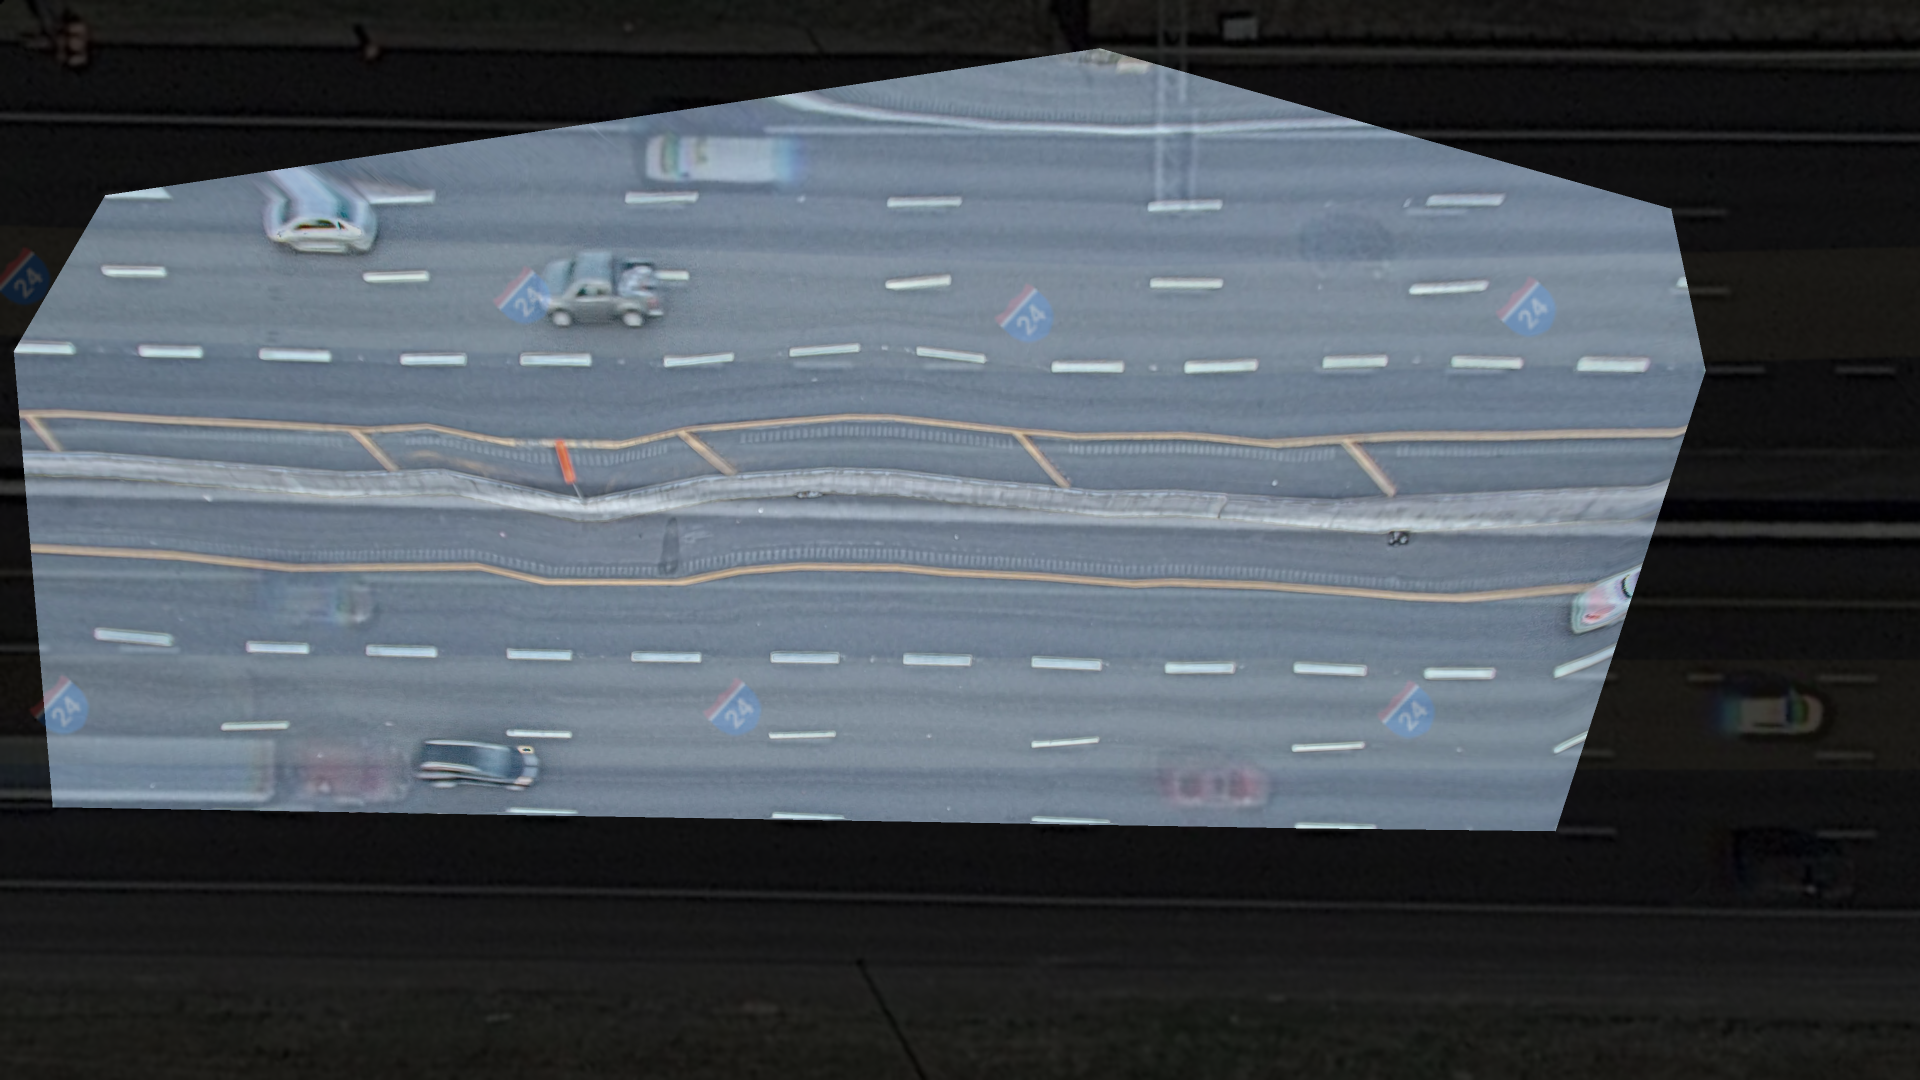
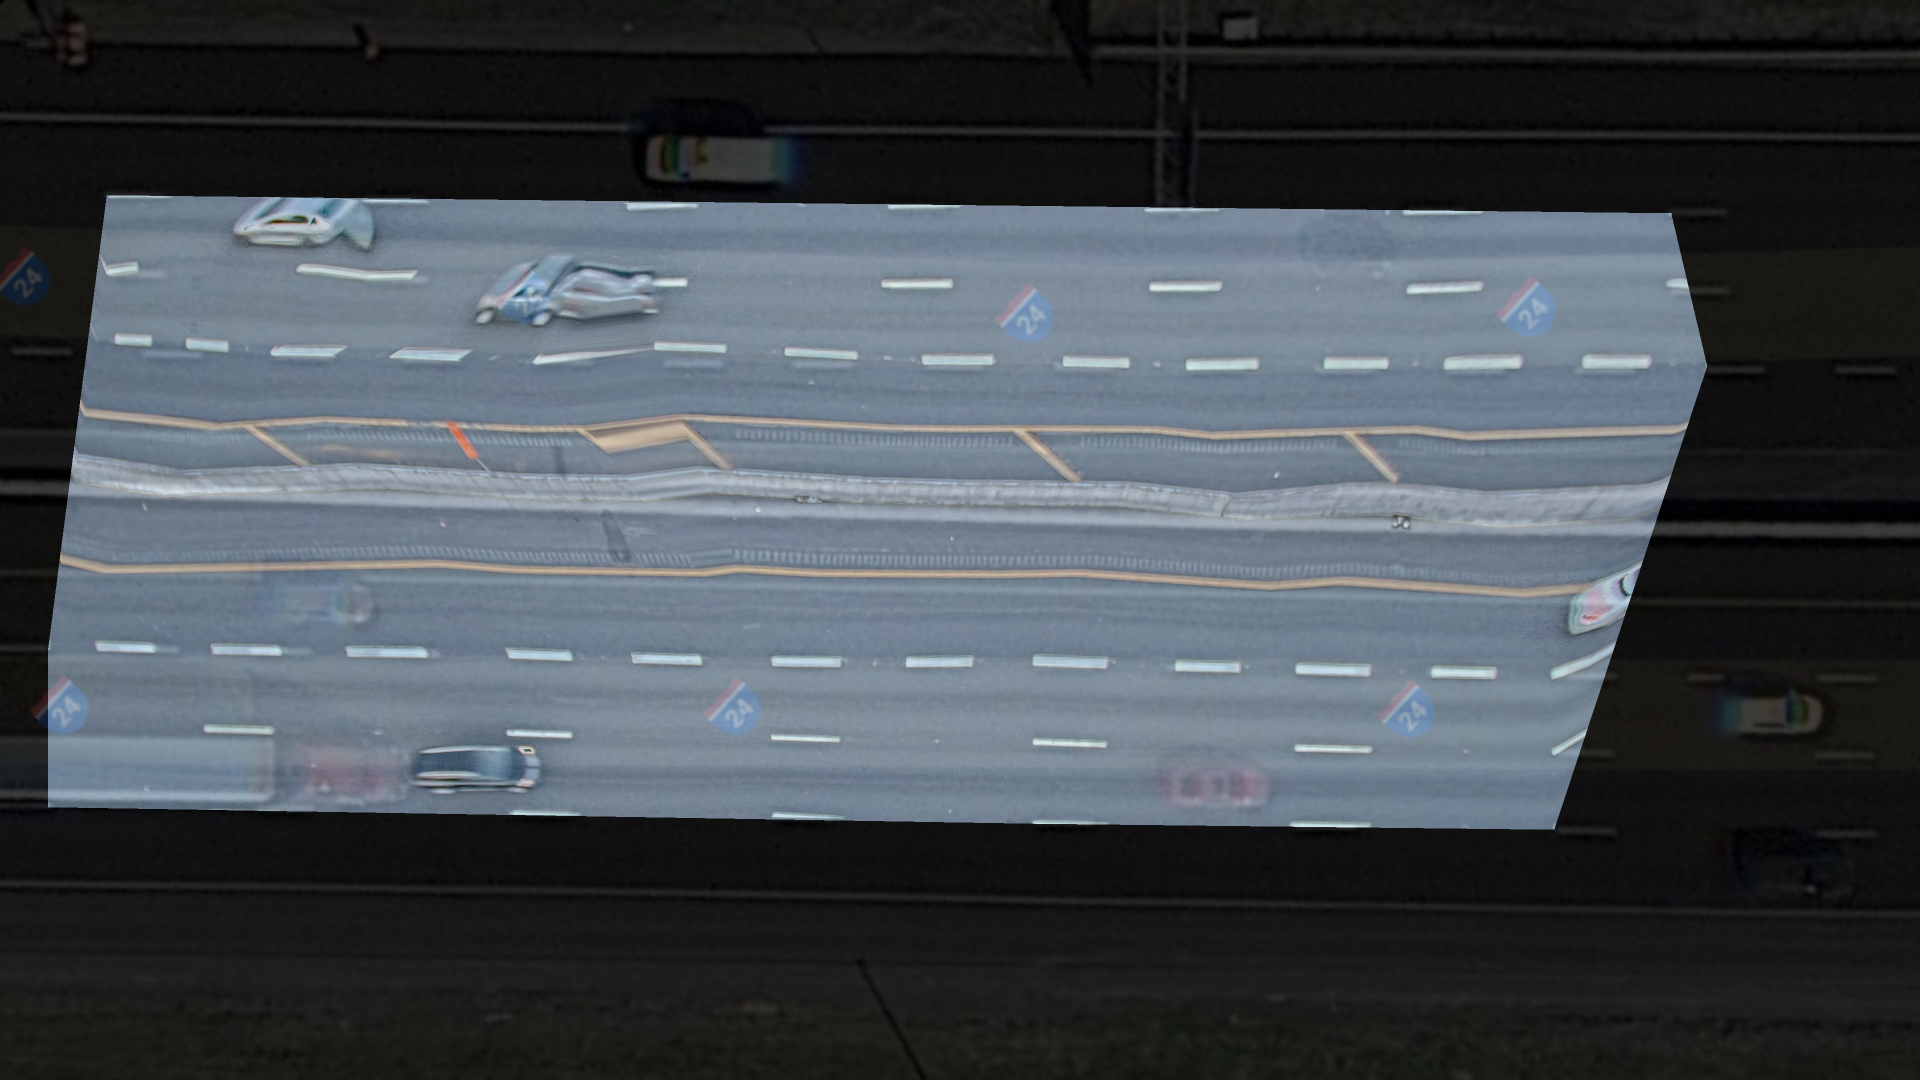
A few tweaks, unresolved issues with this transform still

diff --git a/undistort_fisheye.py b/undistort_fisheye.py
@@ -84,22 +84,29 @@ class Fisheye_Rectifier():
         
     def quit(self):
         cv2.destroyAllWindows()
-        self.find_optimal_warp()
+        #self.find_optimal_warp()
         
-        # compute K and D
-        # n = len(self.undistorted_points)
-        # calibration_flags = cv2.fisheye.CALIB_RECOMPUTE_EXTRINSIC + cv2.fisheye.CALIB_FIX_SKEW
+        #compute K and D
+        n = len(self.undistorted_points)
+        calibration_flags = cv2.fisheye.CALIB_RECOMPUTE_EXTRINSIC + cv2.fisheye.CALIB_FIX_SKEW
         
-        # undistorted = [np.array(self.undistorted_points)[np.newaxis,:,:].astype(np.float32)]
-        # distorted = [np.array(self.distorted_points)[np.newaxis,:,:].astype(np.float32)]
+        undistorted = [np.concatenate((np.array(self.undistorted_points),np.ones([n,1])),axis = 1)[np.newaxis,:,:].astype(np.float32)]
+        distorted = [np.array(self.distorted_points)[np.newaxis,:,:].astype(np.float32)]
         
-        # rvecs = [np.zeros((1, 1, 3), dtype=np.float32) for i in range(n)]
-        # tvecs = [np.zeros((1, 1, 3), dtype=np.float32) for i in range(n)]
-        # D = np.zeros([4,1]).astype(np.float32)
-        # K = np.zeros([3,3]).astype(np.float32)
-        # err, K, D, rvecs, tvecs = cv2.fisheye.calibrate(undistorted,distorted,self.fisheye_im.shape[0:2],K,D,rvecs,tvecs)
-        # print(K,D)
-        # return K,D
+        rvecs = [np.zeros((1, 1, 3), dtype=np.float32) for i in range(n)]
+        tvecs = [np.zeros((1, 1, 3), dtype=np.float32) for i in range(n)]
+        D = np.zeros([4,1]).astype(np.float32)
+        K = np.zeros([3,3]).astype(np.float32)
+        err, K, D, rvecs, tvecs = cv2.fisheye.calibrate(undistorted,distorted,self.fisheye_im.shape[0:2],K,D,rvecs,tvecs)
+        print(err,K,D)
+        
+        D = np.array([5,1,0,0])
+        output_im = cv2.undistort(self.fisheye_im,K,D)
+        
+        cv2.imshow("frame",output_im)
+        cv2.waitKey(0)
+        cv2.destroyAllWindows()
+        return K,D
         
         
     def find_optimal_warp(self, epsilon = 100,delta = 1e-10,alpha = 0.01,order = 2,affine = True):
@@ -204,7 +211,8 @@ class Fisheye_Rectifier():
         try:
             self.distorted_points = points
             self.undistorted_points = targets
-            self.find_optimal_warp()
+            self.quit()
+            #self.find_optimal_warp()
         
         
         except:
@@ -294,81 +302,81 @@ if __name__ == "__main__":
         
     except:
         
-        # points = np.array([[3333,  633],
-        #                     [2988,  558],
-        #                     [2547,  486],
-        #                     [2031,  423],
-        #                     [1503,  387],
-        #                     [1011,  384],
-        #                     [ 606,  399],
-        #                     [ 558,  495],
-        #                     [ 972,  480],
-        #                     [1491,  495],
-        #                     [2043,  531],
-        #                     [2580,  594],
-        #                     [3036,  666],
-        #                     [3384,  732],
-        #                     [3471,  852],
-        #                     [3132,  798],
-        #                     [2673,  729],
-        #                     [2115,  666],
-        #                     [1542,  624],
-        #                     [ 996,  603],
-        #                     [1047, 1200],
-        #                     [1002, 1383],
-        #                     [ 978, 1590],
-        #                     [1737, 1257],
-        #                     [1692, 1452],
-        #                     [1698, 1677],
-        #                     [2442, 1314],
-        #                     [2436, 1500],
-        #                     [2466, 1710],
-        #                     [3036, 1332],
-        #                     [3042, 1503],
-        #                     [3090, 1698],
-        #                     [3459, 1344],
-        #                     [3483, 1494],
-        #                     [3519, 1662],
-        #                     [ 204, 1101],
-        #                     [ 120, 1413]])
+        points = np.array([[3333,  633],
+                            [2988,  558],
+                            [2547,  486],
+                            [2031,  423],
+                            [1503,  387],
+                            [1011,  384],
+                            [ 606,  399],
+                            [ 558,  495],
+                            [ 972,  480],
+                            [1491,  495],
+                            [2043,  531],
+                            [2580,  594],
+                            [3036,  666],
+                            [3384,  732],
+                            [3471,  852],
+                            [3132,  798],
+                            [2673,  729],
+                            [2115,  666],
+                            [1542,  624],
+                            [ 996,  603],
+                            [1047, 1200],
+                            [1002, 1383],
+                            [ 978, 1590],
+                            [1737, 1257],
+                            [1692, 1452],
+                            [1698, 1677],
+                            [2442, 1314],
+                            [2436, 1500],
+                            [2466, 1710],
+                            [3036, 1332],
+                            [3042, 1503],
+                            [3090, 1698],
+                            [3459, 1344],
+                            [3483, 1494],
+                            [3519, 1662],
+                            [ 204, 1101],
+                            [ 120, 1413]])
         
-        # targets = np.array([[3342,  426],
-        #                     [2811,  420],
-        #                     [2292,  417],
-        #                     [1773,  408],
-        #                     [1251,  408],
-        #                     [ 723,  399],
-        #                     [ 213,  390],
-        #                     [ 213,  546],
-        #                     [ 738,  546],
-        #                     [1257,  567],
-        #                     [1770,  567],
-        #                     [2301,  576],
-        #                     [2814,  582],
-        #                     [3333,  564],
-        #                     [3414,  732],
-        #                     [2889,  738],
-        #                     [2376,  735],
-        #                     [1851,  723],
-        #                     [1071,  723],
-        #                     [ 543,  705],
-        #                     [1017, 1311],
-        #                     [1020, 1467],
-        #                     [1029, 1629],
-        #                     [1545, 1323],
-        #                     [1539, 1473],
-        #                     [1545, 1632],
-        #                     [2067, 1329],
-        #                     [2064, 1485],
-        #                     [2067, 1647],
-        #                     [2598, 1338],
-        #                     [2586, 1494],
-        #                     [2586, 1653],
-        #                     [3105, 1350],
-        #                     [3108, 1503],
-        #                     [3108, 1659],
-        #                     [  96, 1296],
-        #                     [  96, 1614]])
+        targets = np.array([[3342,  426],
+                            [2811,  420],
+                            [2292,  417],
+                            [1773,  408],
+                            [1251,  408],
+                            [ 723,  399],
+                            [ 213,  390],
+                            [ 213,  546],
+                            [ 738,  546],
+                            [1257,  567],
+                            [1770,  567],
+                            [2301,  576],
+                            [2814,  582],
+                            [3333,  564],
+                            [3414,  732],
+                            [2889,  738],
+                            [2376,  735],
+                            [1851,  723],
+                            [1071,  723],
+                            [ 543,  705],
+                            [1017, 1311],
+                            [1020, 1467],
+                            [1029, 1629],
+                            [1545, 1323],
+                            [1539, 1473],
+                            [1545, 1632],
+                            [2067, 1329],
+                            [2064, 1485],
+                            [2067, 1647],
+                            [2598, 1338],
+                            [2586, 1494],
+                            [2586, 1653],
+                            [3105, 1350],
+                            [3108, 1503],
+                            [3108, 1659],
+                            [  96, 1296],
+                            [  96, 1614]])
         
         
         fisheye_video_path = "/home/worklab/Data/cv/video/fisheye/record_32_p2c4_00000.mp4"
